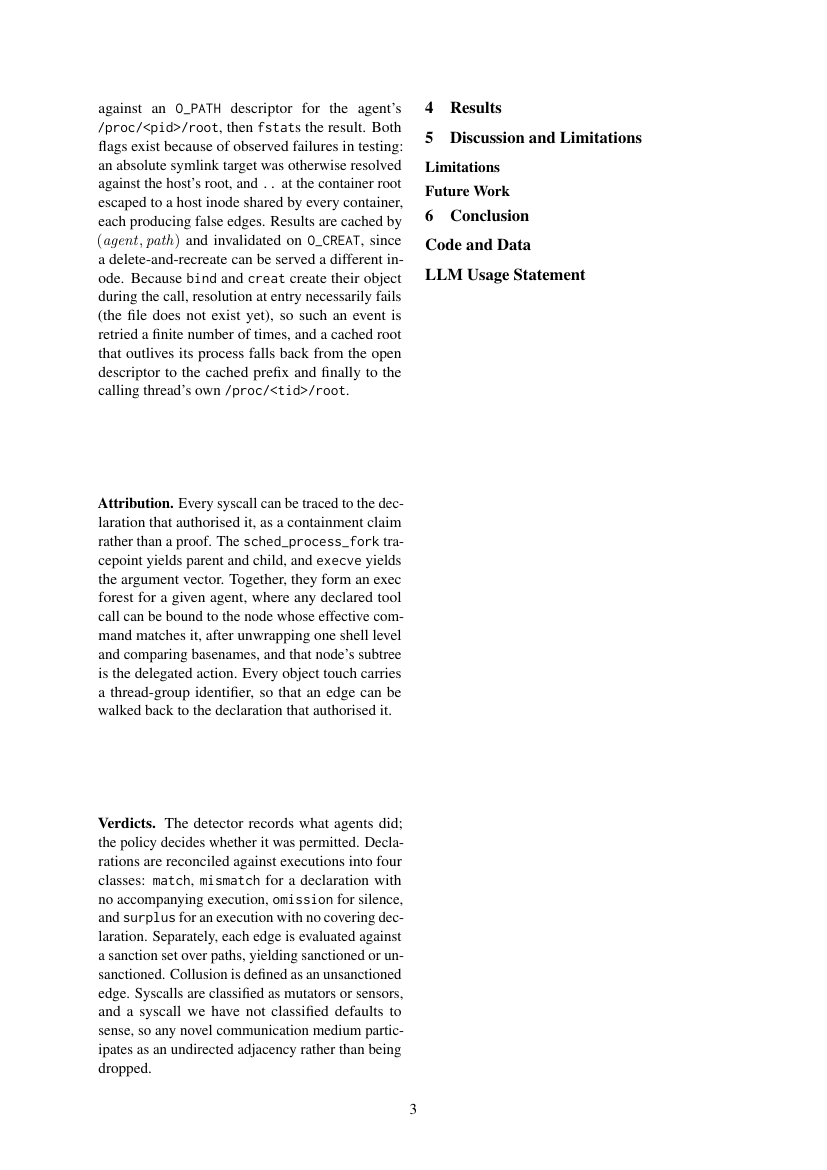
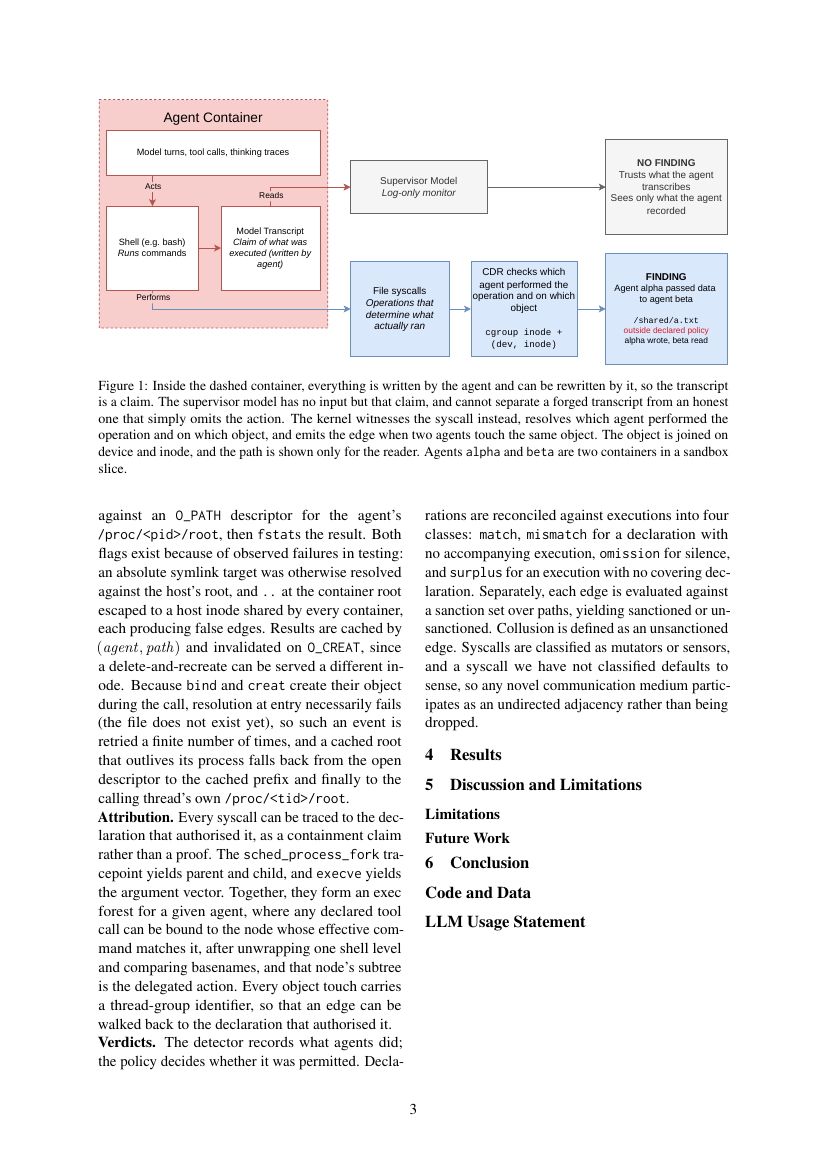
paper: Methods, Figure 1 placement, float and trim settings

Changed region(s): [[0.1209, 0.0615, 0.9069, 0.9231], [0.5139, 0.4308, 0.8767, 0.8]]

diff --git a/paper/main.tex b/paper/main.tex
@@ -33,6 +33,16 @@ Collusion Detection and Response:\\ Oversight That Outlives the Transcript$^{1}$
   \texttt{mikey@mikeywhiston.dev}\\[0.7em]
   {\footnotesize $^{1}$Research conducted at the Swarm Alignment Hackathon, November 2026}}
 
+
+% float placement: a full-width figure should share a page with text
+\raggedbottom
+\renewcommand{\topfraction}{0.9}
+\renewcommand{\dbltopfraction}{1.0}
+\renewcommand{\textfraction}{0.07}
+\renewcommand{\floatpagefraction}{0.75}
+\setcounter{topnumber}{3}
+\setcounter{dbltopnumber}{3}
+
 \begin{document}
 \maketitle
 
@@ -118,9 +128,10 @@ which keeps the mechanism auditable and its alarms revisable.
 
 \section{Methods}
 
-\begin{figure*}[t]
+\begin{figure*}[!t]
 \centering
-\includegraphics[width=\textwidth]{figures/fig1.pdf}
+% trim removes the Letter-page whitespace around the drawing; recompute if fig1.pdf is re-exported
+\includegraphics[width=\textwidth, trim={14 398 4 143}, clip]{figures/fig1.pdf}
 \caption{Inside the dashed container, everything is written by the agent and can be rewritten by it, so the transcript is a claim. The supervisor model has no input but that claim, and cannot separate a forged transcript from an honest one that simply omits the action. The kernel witnesses the syscall instead, resolves which agent performed the operation and on which object, and emits the edge when two agents touch the same object. The object is joined on device and inode, and the path is shown only for the reader. Agents \texttt{alpha} and \texttt{beta} are two containers in a sandbox slice.}
 \label{fig:trust}
 \end{figure*}
